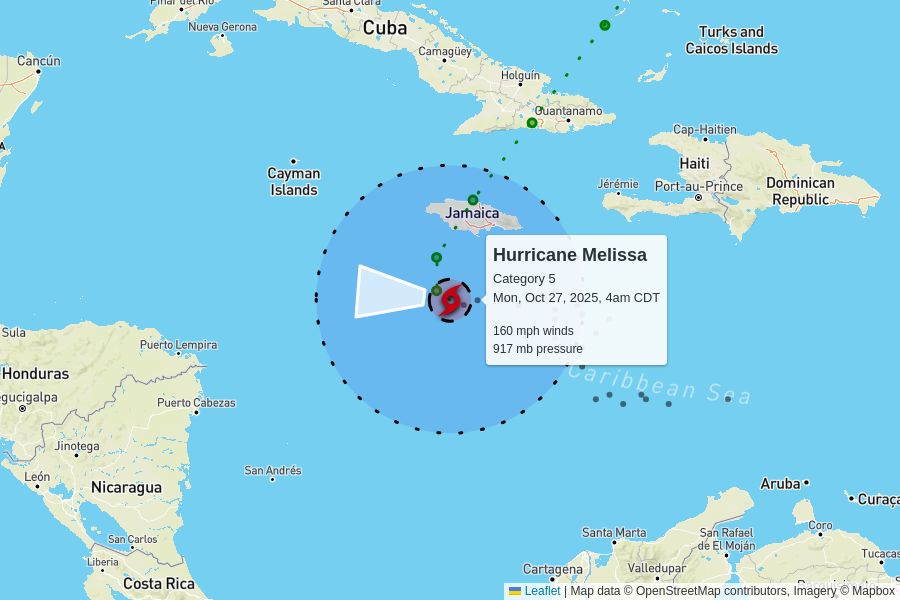
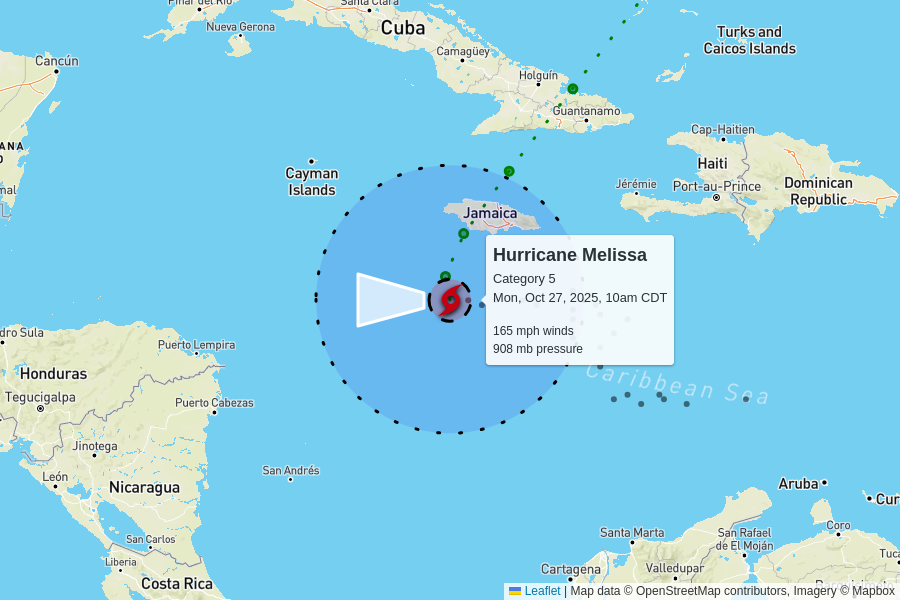
automatic update

diff --git a/docs/index.html b/docs/index.html
@@ -102,7 +102,7 @@
         <td colspan="6" class="storm category-5" >
           <h2>
             Hurricane Melissa - Category 5
-            <p class="updated">last updated <span data-time>2025-10-27T09:00:00.000Z</span></p>
+            <p class="updated">last updated <span data-time>2025-10-27T15:00:00.000Z</span></p>
           </h2>
         </td>
       </tr>
@@ -117,12 +117,12 @@
       </tr>
       <tr>
         <td class="spacer"></td>
-        <td>160 mph<br>+15 mph since last update</td>
-        <td>917 mb<br>-16 mb since last update</td>
+        <td>165 mph<br>+5 mph since last update</td>
+        <td>908 mb<br>-9 mb since last update</td>
         <td>
           3 mph to the west
           <br/>
-          <span style="display: inline-block; font-size: 1.5em; transform: rotate(275deg);">↑</span>
+          <span style="display: inline-block; font-size: 1.5em; transform: rotate(270deg);">↑</span>
         </td>
         <td><a href="https://raw.githubusercontent.com/mgwalker/atlantic-hurricanes/main/data/csv/AL132025.csv">AL132025.csv</a></td>
         <td><a href="https://www.nhc.noaa.gov/archive/2025/MELISSA.shtml?">NHC advisories</a></td>
